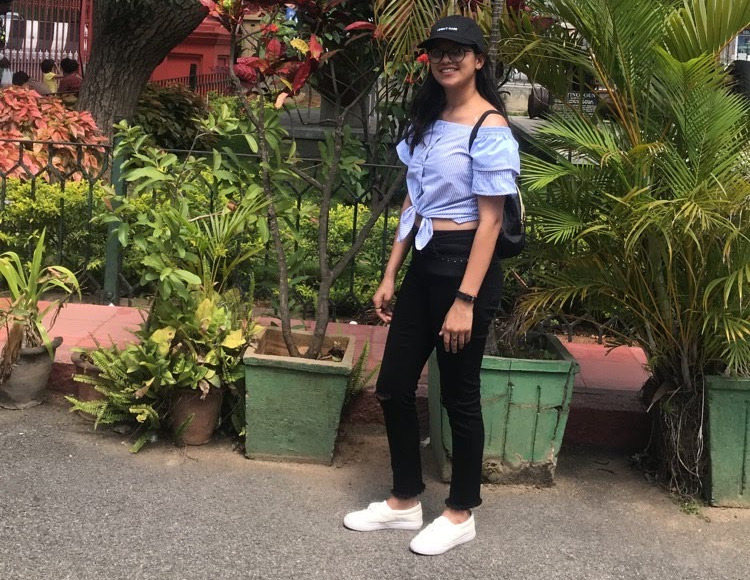
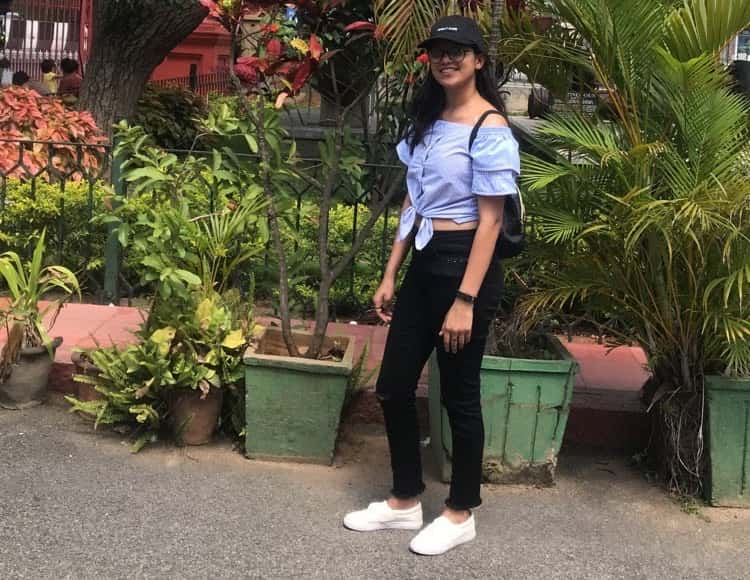
image optimised

diff --git a/styles.css b/styles.css
@@ -62,13 +62,13 @@ html {
     background-repeat: no-repeat;
 }
 .card-3{
-    background: url('./assets/TeamPic.png');
+    background: url('./assets/TeamPic.jpg');
     background-position: top;
     background-size: cover;
     background-repeat: no-repeat;
 }
 .card-4{
-    background: url('./assets/57C8BF28-D0F5-4EFA-811E-D24E1421B834 - AKSHARA KHURANA.jpeg');
+    background: url('./assets/57C8BF28-D0F5-4EFA-811E-D24E1421B834 - AKSHARA KHURANA.jpg');
     background-position: center;
     background-size: cover;
     background-repeat: no-repeat;
@@ -280,7 +280,7 @@ html {
     background-repeat: no-repeat;
 }
 .card-39{
-    background: url('./assets/Rishab - Rishab Aggarwal.jpg');
+    background: url('./assets/Rishab - Rishab Aggarwal.jpeg');
     background-position: center;
     background-size: cover;
     background-repeat: no-repeat;
